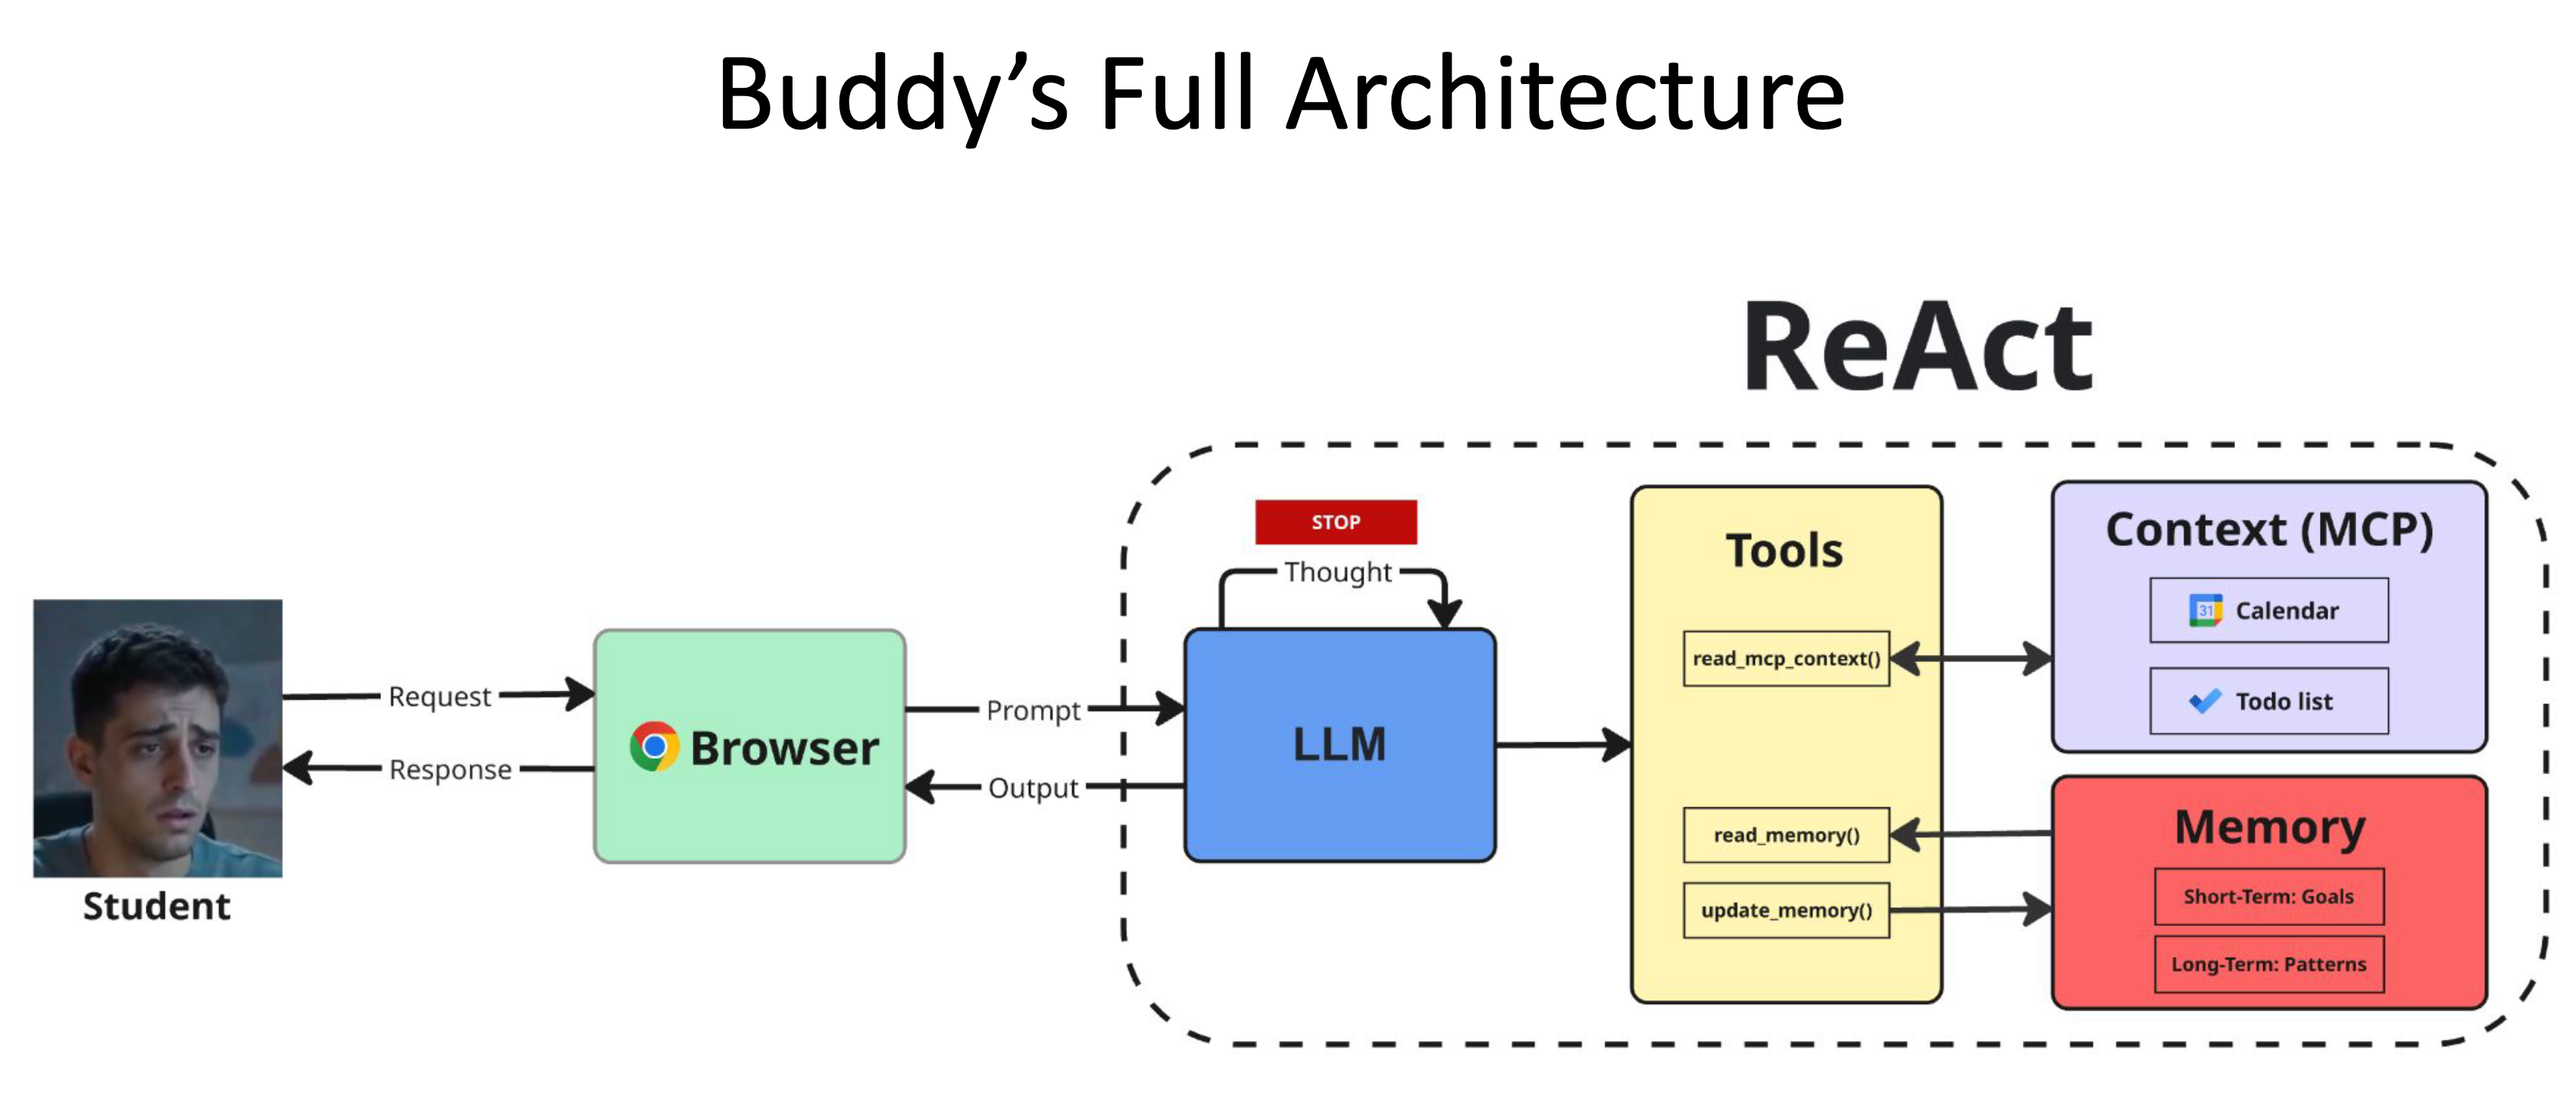
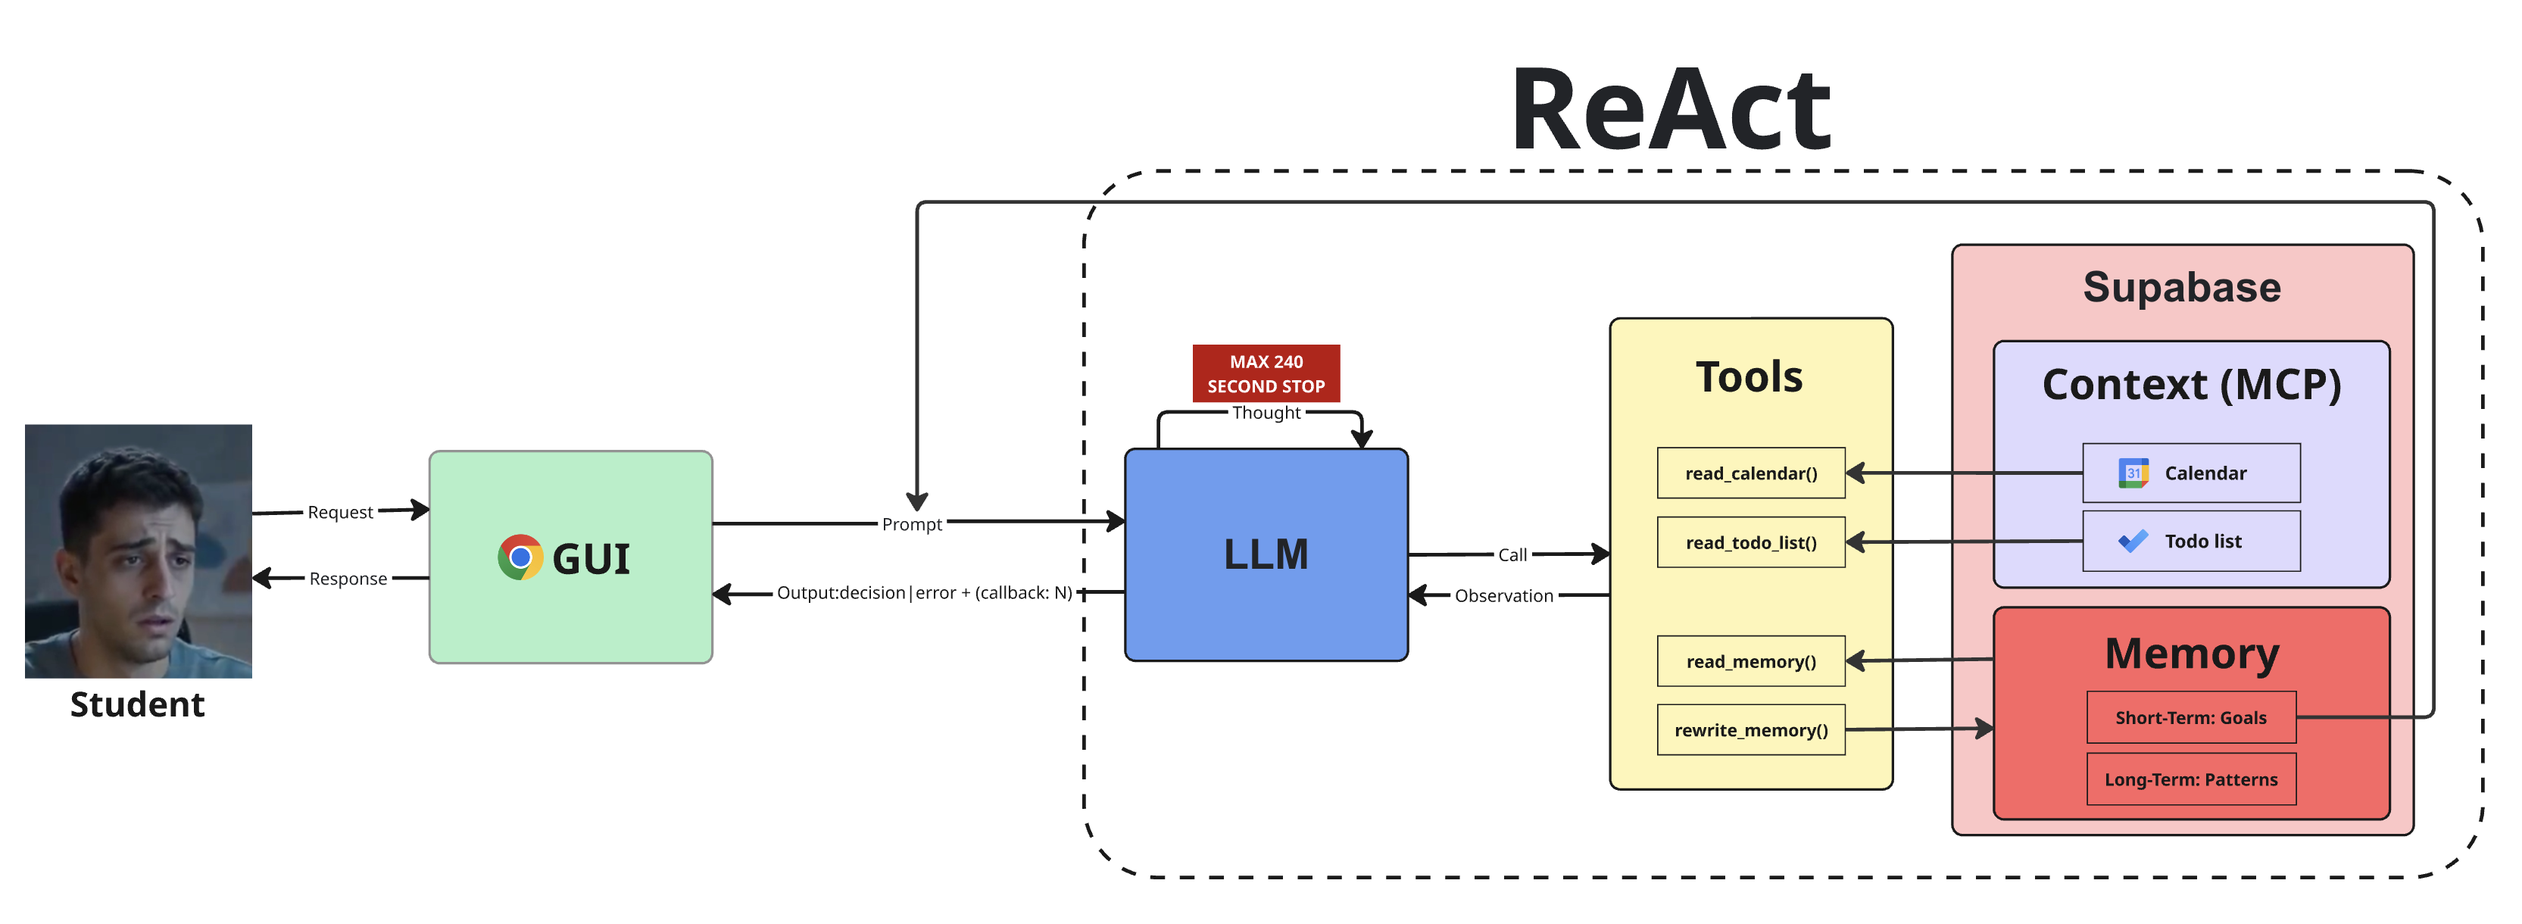
Label tool results, and take every fact out of the examples
Two bugs, one trace. Production returned "No browsing tab here - I need the
site you opened" for a prompt reading "opened youtube.com - lo-fi beats".

Tool results ride in a "user" message - the only role available without native
tool-calling, which would reshape the message array the trace has to show
verbatim. So an observation looked exactly like the student typing. Two memory
writes buried the real prompt under two bare {"ok":true} acks and the model
answered the last thing it saw. Results now carry a "TOOL RESULT (not the
student):" prefix, in the loop and in the examples alike.

The examples also still leaked. Cleaning the memory writes last commit only
moved the problem: "Ecology midterm" - invented for example 2's calendar
observation hours earlier - was in the production memory row, written by the
agent as its own note. So no example carries a fact now. The calendar comes
back empty, the memory read comes back empty, and the nudges argue from the
tab instead of a deadline. An example teaches "call the tool, then decide from
what came back" - the loop, not the contents. Whatever concrete value sits
there will eventually be asserted to a student as fact.

Added a boundary turn between the examples and the live session. The few-shot
block is a plain run of user/assistant messages, so the real prompt read as the
next line of the same conversation with nothing marking where fiction stopped.

Verified against gpt-5-mini: the three prompts that fabricated now decide in
[…]

diff --git a/api/agent/prompts.py b/api/agent/prompts.py
@@ -103,6 +103,32 @@ or read the context you actually have.
 Every turn costs money. Call a tool when you need what it holds, not by habit."""
 
 
+# Everything the model receives that is not the student has to say so, because
+# the transport cannot. This loop puts tool results in a "user" message - there
+# is no tool role without native tool-calling, and native tool-calling would
+# reshape the message array the trace has to show verbatim. So an observation
+# arrived looking exactly like the student typing, and after two tool calls the
+# model answered the last thing it saw: it read {"ok":true}, found no site in
+# it, and returned "No browsing tab here" for a prompt that said
+# "opened youtube.com". Prefixing costs four words and removes the ambiguity.
+OBSERVATION = "TOOL RESULT (not the student): "
+
+# The few-shot block is a plain run of user/assistant turns, so the live prompt
+# reads as the next line of the same conversation. The system prompt says the
+# examples are fictional, but nothing marked where they stop. This does.
+BOUNDARY = (
+    "End of the training examples. Everything after this message is the live "
+    "session: a real student, real tools, real memory that persists. Nothing "
+    "above happened - do not carry any name, date, deadline, count or site "
+    "from it into what you write now."
+)
+
+
+def observation(payload: str) -> str:
+    """A tool result, labelled as one."""
+    return OBSERVATION + payload
+
+
 # Six examples. The multi-turn ones matter most - single-turn examples teach the
 # output shape, multi-turn ones teach it to look before judging, which is the
 # whole difference between this agent and a keyword blocker.
@@ -120,51 +146,69 @@ Every turn costs money. Call a tool when you need what it holds, not by habit.""
 # same reason and had to go: a pasted r/aww link came back with this file's
 # message almost word for word, and no tool call.
 #
-# The memory writes below record only what the agent DID - a count, a time, what
-# a callback is for. They deliberately do not restate the deadline that prompted
-# them. An earlier version opened every write with "Databases midterm tomorrow",
-# and that sentence ended up in the real database, where the agent read it back
-# as its own note and told a student about an exam that does not exist. Context
-# is re-readable through a tool; a nudge count is not. Only the second kind
-# belongs in memory, and keeping facts out of these strings means there is
-# nothing here worth copying.
+# NO EXAMPLE CONTAINS A FACT. Not in a memory write, not in a tool result, not
+# in a message. This is the third attempt at that rule and the first that holds,
+# because the first two only moved the facts around:
+#
+#   1. Every memory write opened with "Databases midterm tomorrow". That
+#      sentence reached the real database, where the agent read it back as its
+#      own note and told a student about a course they are not taking.
+#   2. The writes were cleaned, so the model copied the calendar OBSERVATION
+#      instead - "Ecology midterm" came straight out of example 2's tool result
+#      and into production memory within a day.
+#
+# So the tool results below return empty or shapeless payloads. An example
+# exists to teach "call the tool, then decide from what came back" - the loop,
+# not the contents. A populated result teaches that too, and additionally hands
+# the model a plausible deadline to reach for whenever it wants one, which it
+# does. Whatever concrete value sits here will eventually be asserted to a
+# student as fact, so the only safe value is none.
 FEW_SHOT = [
-    # 1. Reads context, then allows on-task browsing.
+    # 1. Reads context, then allows on-task browsing. The memory result is empty:
+    #    it still teaches "look before allowing", and there is nothing to copy.
     {"role": "user", "content": "Opened jstor.org - 'kinship structures in highland burma'"},
     {"role": "assistant", "content": '{"type":"tool_call","tool":"read_memory","args":{"scope":"short"}}'},
-    {"role": "user", "content": '{"content":"Working on the anthropology seminar paper.","updated_at":"2026-08-02T09:10:00Z"}'},
+    {"role": "user", "content": OBSERVATION + '{"content":"","updated_at":null}'},
     {"role": "assistant", "content": '{"type":"decision","action":"allow","url":"jstor.org"}'},
 
     # 2. Checks the calendar, then nudges, recording the count and the pending
-    #    check in one write before the decision.
+    #    check in one write before the decision. The calendar comes back EMPTY
+    #    and the nudge names no deadline - it argues from the tab alone, which
+    #    is what the agent must do when it has read nothing that supports one.
     {"role": "user", "content": "Opened twitch.tv - 'valorant ranked grind'"},
     {"role": "assistant", "content": '{"type":"tool_call","tool":"read_calendar","args":{}}'},
-    {"role": "user", "content": '{"weekly_events":[{"date":"2026-08-03","title":"Ecology midterm"}]}'},
+    {"role": "user", "content": OBSERVATION + '{"weekly_events":[]}'},
     {"role": "assistant", "content": '{"type":"tool_call","tool":"rewrite_memory","args":{"scope":"short","text":"Nudged twitch.tv 1x at 14:58 - check in 5 min whether they left."}}'},
-    {"role": "user", "content": '{"ok":true}'},
-    {"role": "assistant", "content": '{"type":"decision","action":"nudge","url":"twitch.tv","message":"That midterm is tomorrow and the notes are still untouched. Half an hour on it, then the grind?","callback":300}'},
+    {"role": "user", "content": OBSERVATION + '{"ok":true}'},
+    {"role": "assistant", "content": '{"type":"decision","action":"nudge","url":"twitch.tv","message":"Ranked eats hours and you know how it goes. Half an hour on the coursework first, then the grind?","callback":300}'},
 
     # 3. Wake - the prompt says only that the timer fired. Everything it needs
     #    it wrote itself in example 2, and reads back here before escalating.
     {"role": "user", "content": "Waking up - you asked to check back."},
     {"role": "assistant", "content": '{"type":"tool_call","tool":"read_memory","args":{"scope":"short"}}'},
-    {"role": "user", "content": '{"content":"Nudged twitch.tv 2x - still there both times.","updated_at":"2026-08-02T15:04:00Z"}'},
+    {"role": "user", "content": OBSERVATION + '{"content":"Nudged twitch.tv 2x - still there both times.","updated_at":"2026-08-02T15:04:00Z"}'},
     {"role": "assistant", "content": '{"type":"decision","action":"lock","url":"twitch.tv","message":"Twice I have asked, and you are still here. Closing this one - come find me when the notes are done."}'},
 
-    # 4. Hebrew tab gets a Hebrew message.
+    # 4. Hebrew tab gets a Hebrew message. No deadline named - it read nothing
+    #    this turn, so it argues from the tab.
     {"role": "user", "content": "Opened walla.co.il - 'ספורט'"},
-    {"role": "assistant", "content": '{"type":"decision","action":"nudge","url":"walla.co.il","message":"יש לך מבחן מחר ועוד לא פתחת את החומר. חצי שעה ואז ספורט?","callback":600}'},
+    {"role": "assistant", "content": '{"type":"decision","action":"nudge","url":"walla.co.il","message":"אתה יודע איך זה נגמר - עוד עשרים דקות ואתה עדיין שם. חצי שעה על החומר ואז ספורט?","callback":600}'},
 
     # 5. What a person actually types: no "Opened", a pasted URL, no title. Sets
     #    a callback, so it writes what the callback is for first.
     {"role": "user", "content": "im on https://www.Pinterest.com/search/pins/?q=desk%20setup lol"},
     {"role": "assistant", "content": '{"type":"tool_call","tool":"rewrite_memory","args":{"scope":"short","text":"Nudged pinterest.com 1x at 15:20 - callback at 15:30, check if they are still there."}}'},
-    {"role": "user", "content": '{"ok":true}'},
+    {"role": "user", "content": OBSERVATION + '{"ok":true}'},
     {"role": "assistant", "content": '{"type":"decision","action":"nudge","url":"pinterest.com","message":"Desk setup inspiration is a 40-minute hole and you know it. Set a timer?","callback":600}'},
 
     # 6. No browsing event - error immediately, no tool calls to pad it out.
     {"role": "user", "content": "how many days until the exam?"},
     {"role": "assistant", "content": '{"type":"error","message":"No site in that - send me a tab, like \\"Opened wikipedia.org - \'Bayes theorem\'\\"."}'},
+
+    # The examples end here, and the model is told so in its own channel. Without
+    # this the live prompt is just the next user turn in an unbroken transcript.
+    {"role": "user", "content": BOUNDARY},
+    {"role": "assistant", "content": '{"type":"error","message":"Understood - examples ignored. Send me a tab."}'},
 ]
 
 SUMMARIZE = (

diff --git a/api/agent/loop.py b/api/agent/loop.py
@@ -125,7 +125,13 @@ def run(prompt: str) -> tuple[dict, list]:
             "response": result,
         })
 
+        # Labelled, because the role cannot distinguish it. A tool result and the
+        # student both arrive as "user" - so an unlabelled {"ok":true} is the
+        # last thing the model sees, and it answers that instead of the prompt.
+        # One live trace returned "No browsing tab here" for a prompt reading
+        # "opened youtube.com": two writes had buried it under two bare acks.
         messages = messages + [
             {"role": "assistant", "content": raw},
-            {"role": "user", "content": json.dumps(result, ensure_ascii=False)[:4000]},
+            {"role": "user", "content": prompts.observation(
+                json.dumps(result, ensure_ascii=False)[:4000])},
         ]
